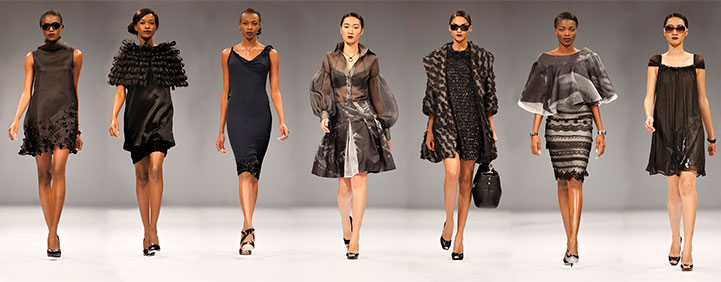
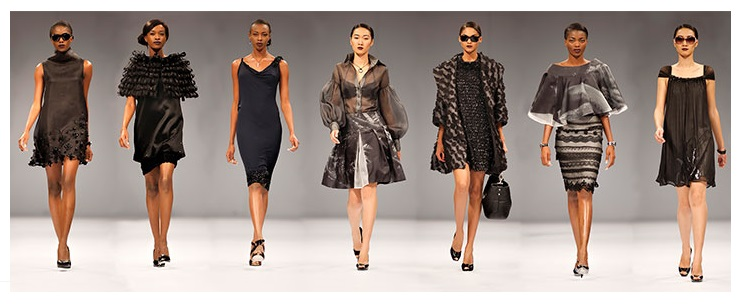
Added some JavaScript to create slider

diff --git a/JS/home.js b/JS/home.js
@@ -1,0 +1,25 @@
+var images = [ /*maak een array aan met de images die ingeladen moeten worden*/
+"../img/banner.jpg",
+"../img/fashion.jpeg",
+"../img/supercar.jpg"
+];
+
+var num = 0;
+
+function next() { /*Functie aangemaakt. Deze wordt aangeroepen iedere keer wanneer ik op Next op de pagina klik*/
+	var slider = document.getElementById('slider'); /*roep de img genaamd slider aan en maak er een variabele van*/
+	num++; 
+	if (num >=images.length) { /*als num groter of gelijk is aan 3 dan wordt num weer 0. Zo voorkom je dat je eindeloos next kan drukken zonder dat er afbeeldingen verschijnen.*/
+		num = 0;
+	}
+	slider.src = images[num]; /*Slider src veranderd nu elke keer in wat er in de array staat*/
+}
+
+function prev() {
+	var slider = document.getElementById('slider'); /*Functie aangemaakt. Deze wordt aangeroepen iedere keer wanneer ik op Next op de pagina klik*/
+	num--;
+	if (num<0) { /*Als num kleiner is dan 0, veranderd num weer terug naar [2] van de array. Zo voorkom je dat er eindeloos op previous kan drukken zonder dat er afbeeldingen verschijnen.*/
+		num = images.length -1;
+	}
+	slider.src = images[num]; /*Slider src veranderd nu elke keer in wat er in de array staat*/
+}

diff --git a/HTML/home.html b/HTML/home.html
@@ -4,6 +4,7 @@
 	<title>Over'All: Home</title>
 	<link rel="stylesheet" type="text/css" href="../CSS/home.css">
 	<link href="https://fonts.googleapis.com/css?family=Lato" rel="stylesheet">
+	<script type="text/javascript" src="../JS/home.js"></script>
 </head>
 <body>
 <div class="container-grid">
@@ -20,7 +21,14 @@
 			</ul>
 		</nav>
 	</div>
-	<div class="banner"><img src="../img/banner.jpg" alt=""></div>
+	<div class="banner">
+
+		<button id="buttonPrev" onclick="prev()"> Prev </button>
+		<img id="slider" src="../img/banner.jpg" alt="" width="690px" height="320px">
+		<button id="buttonNext" onclick="next()"> Next </button>
+
+
+	</div>
 	<div class="banner-content">
 		<h1> Let's talk business </h1>
 		 <p>Lorem ipsum dolor sit amet, consectetur adipisicing elit, sed do eiusmod

diff --git a/CSS/autos.css b/CSS/autos.css
@@ -81,13 +81,10 @@ h2 {
 
 		.banner img {
 			position: relative;
-			top: 10%;
-			left: 20%;
-			width: 500px;
-			height: 250px;
-			border-style: solid;
-			border-color: white;
-			border-width: 10px;
+			top: 5%;
+			left: 4%;
+			width: 690px;
+			height: 320px;
 		}
 
 				.banner-content { 

diff --git a/CSS/clothing.css b/CSS/clothing.css
@@ -80,12 +80,10 @@ h2 {
 
 		.banner img {
 			position: relative;
-			top: 10%;
-			left: 2%;
-			width: 700px;
-			border-style: solid;
-			border-color: white;
-			border-width: 10px;
+			top: 5%;
+			left: 4%;
+			width: 690px;
+			height: 320px;
 		}
 
 				.banner-content { 

diff --git a/CSS/home.css b/CSS/home.css
@@ -81,7 +81,7 @@ h2 {
 		.banner img {
 			position: relative;
 			top: 5%;
-			left: 5%;
+			left: 0%;
 		}
 
 				.banner-content { 
